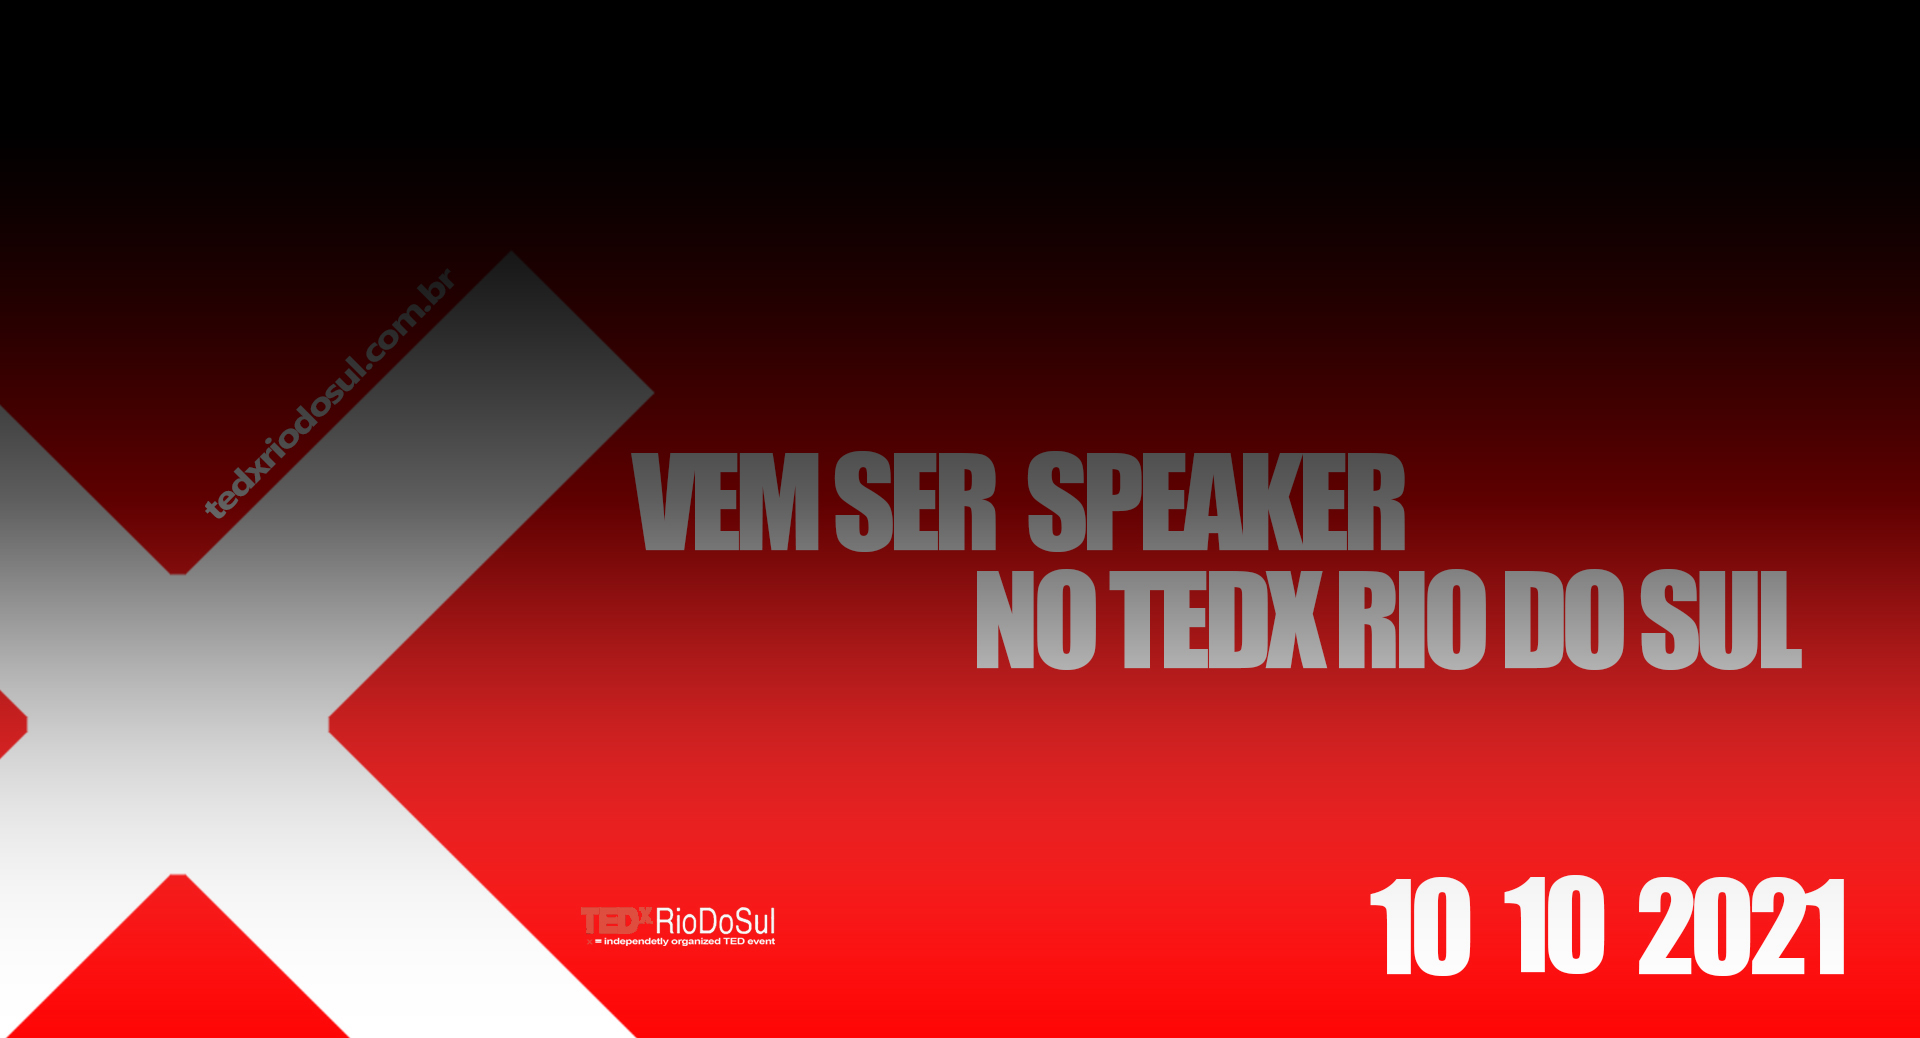
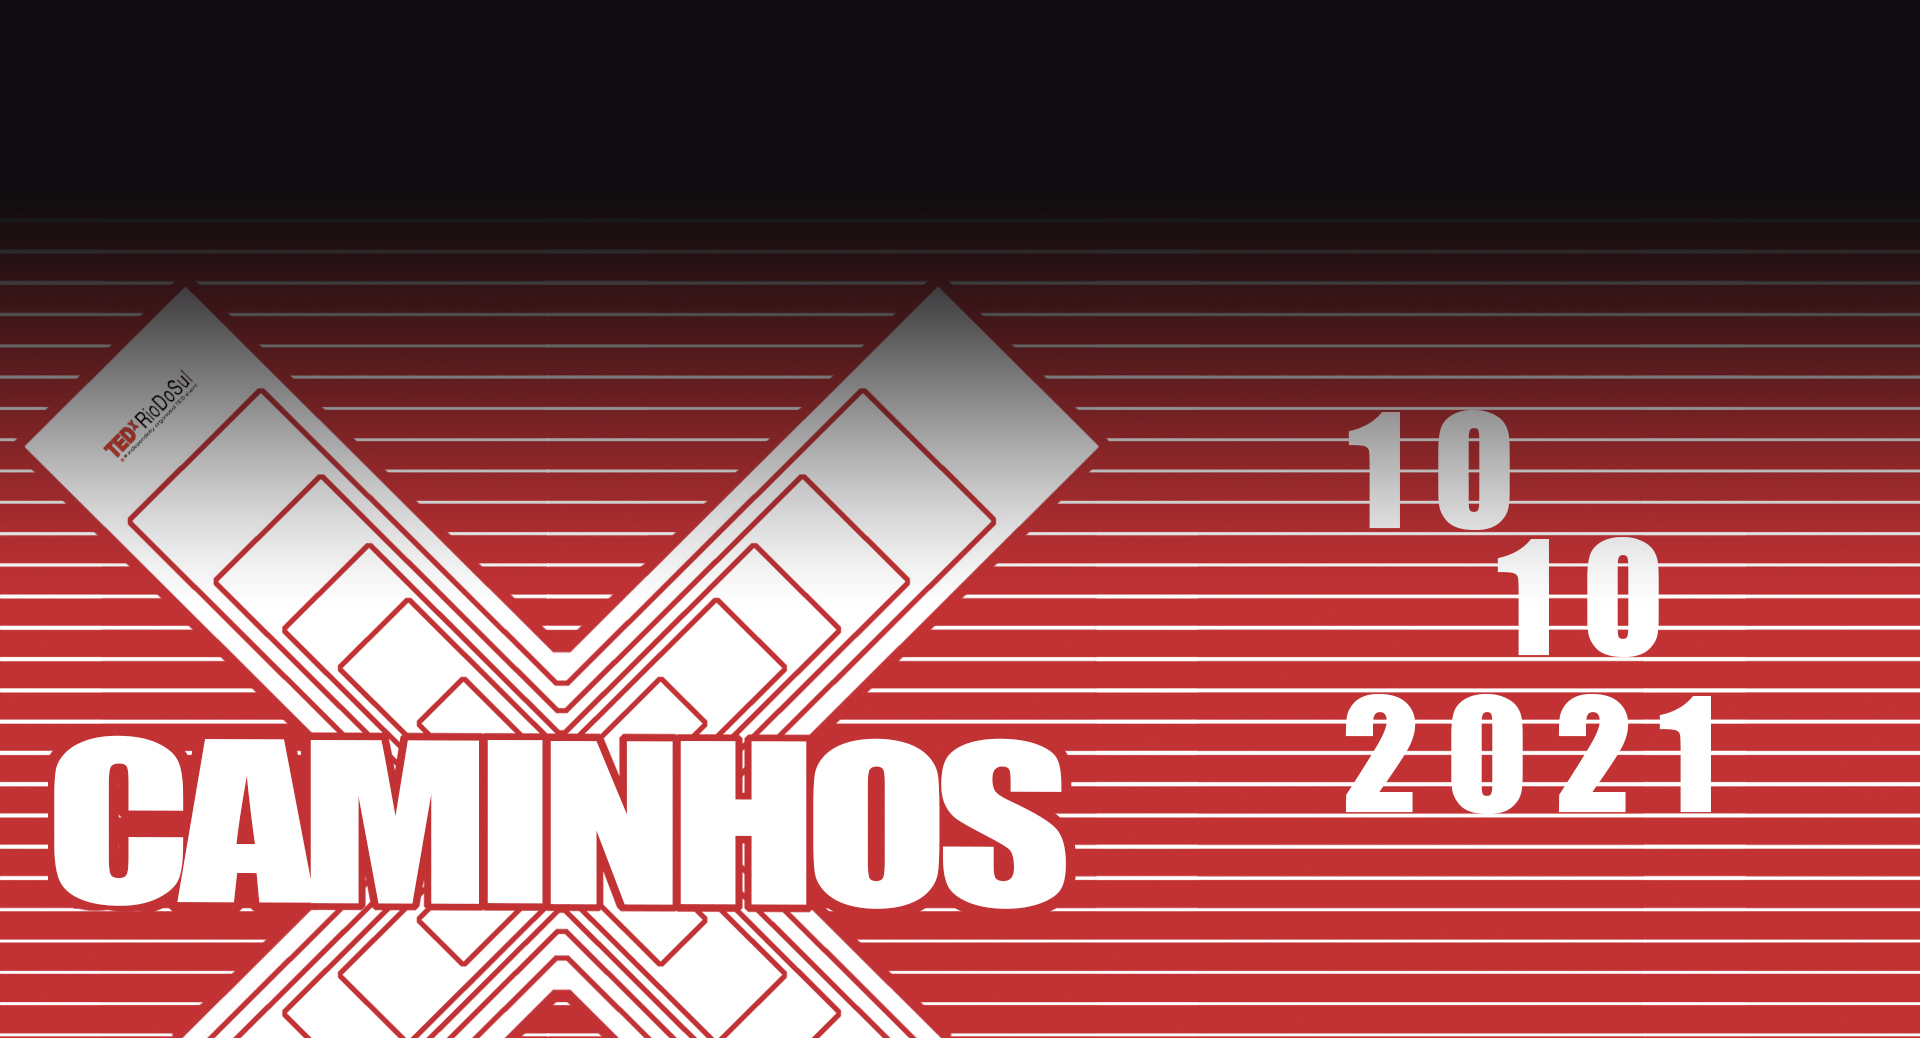
Inserido personalização de tema

diff --git a/index.html b/index.html
@@ -80,6 +80,26 @@
 <!--cover section slider -->
 <section id="home" class="home-cover">
     <div class="cover_slider owl-carousel owl-theme">
+        <div class="cover_item" style="background: url('assets/img/bg/ted_bg_principal_1.jpg');">
+            <div class="slider_content">
+               <div class="slider-content-inner">
+                   <div class="container">
+                       <div class="slider-content-center">
+                           <h2 class="cover-title">
+                               &nbsp;
+                           </h2>
+                           <strong class="cover-xl-text">&nbsp;</strong>
+                           <p class="cover-date">
+                               &nbsp;
+                           </p>
+                           <!-- <a href="" target="_blank" class=" btn btn-primary btn-rounded" style="margin-top: 70px">
+                               Inscrições Encerradas!
+                           </a> -->
+                       </div>
+                   </div>
+               </div>
+           </div>
+        </div> 
         <div class="cover_item" style="background: url('assets/img/bg/ted_bg_principal_2.jpg');">
             <div class="slider_content">
                 <div class="slider-content-inner">
@@ -118,27 +138,7 @@
                     </div>
                 </div>
             </div>
-        </div>
-        <div class="cover_item" style="background: url('assets/img/bg/ted_bg_principal_1.jpg');">
-            <div class="slider_content">
-               <div class="slider-content-inner">
-                   <div class="container">
-                       <div class="slider-content-center">
-                           <h2 class="cover-title">
-                               &nbsp;
-                           </h2>
-                           <strong class="cover-xl-text">&nbsp;</strong>
-                           <p class="cover-date">
-                               &nbsp;
-                           </p>
-                           <a href="" target="_blank" class=" btn btn-primary btn-rounded" style="margin-top: 70px">
-                               Inscrições Encerradas!
-                           </a>
-                       </div>
-                   </div>
-               </div>
-           </div>
-        </div>    
+        </div>   
     </div>
     <div class="cover_nav">
         <ul class="cover_dots">
@@ -206,7 +206,7 @@
 
 
 <!--event countdown -->
-<section class="bg-img pt70 pb70" style="background-image: url('assets/img/bg/ted_bg_counter.png');">
+<section class="bg-img pt70 pb70" style="background-image: url('assets/img/bg/ted_bg_counter.jpg');">
     <div class="overlay_dark"></div>
     <div class="container">
         <div class="row justify-content-center">
@@ -222,8 +222,7 @@
 
 
 <!--about the event -->
-<!-- atualizar quando tivermos o tema -->
-<!-- <section class="pt100 pb50">
+<section class="pt100 pb50">
     <div class="container">
         <div class="section_title">
             <h3 class="title">
@@ -233,27 +232,39 @@
         <div class="row justify-content-center">
             <div class="col-12 col-md-12">
                 <p>
-                    <h4><i>Velocidade</i></h4><br/>
+                    <h4><i>Caminhos</i></h4><br/>
                 </p>
             </div>
         </div>
         <div class="row justify-content-center">
             <div class="col-12 col-md-6">
                 <p style="line-height: 30px">
-                Movimento ou deslocamento rápido.<br/>
-                A presença da velocidade é o que move o mundo, mas a ausência dela também, dependendo do ponto de vista, do contexto e dos envolvidos.<br/>
-
+                    Entre caminhos, o caminho está! Nos destinos, nas viagens, está também na dança e no artesanato.
+                    O caminho está nas metáforas, poesias, literaturas, nas figuras de linguagem. Até nas exatas, tem caminho na física e na astronomia. <br/>
+                    Do Latim vulgar “CAMMINUS”, de origem celta, passa a ideia de “deslocar-se, andar”.
+                    Tem tantas definições: direção, estrada, percurso, rumo, atalho, vereda. Tem tantos caminhos em nossos caminhos, tantas pessoas.
                 </p>
             </div>
             <div class="col-12 col-md-6">
                 <p style="line-height: 30px">
-                    Em qual velocidade você evolui, vive, se relaciona, aprende, processa, esquece, envelhece, cria, transforma, se conectada e se perde?<br/>
-                    Minha velocidade é diferente da sua, na minha percepção ou na tua?
+                    Tem aqueles que passam, tem os que cruzam e no meio do caminho tudo pode acontecer.
+                    O mundo está repleto de caminhos, por onde andamos há sempre novas descobertas, aprendemos, ensinamos. <br/>
+                    Dos fragmentos do caminho nós somos, é pelo caminho que nós nos encontramos, para compartilhar, para transformar.
+                </p>
+                <p>
+                    E você, para onde está indo?
                 </p>
             </div>
         </div>
+        <div class="row justify-content-center">            
+            <div class="col-12 col-md-6">
+                <p style="line-height: 30px">
+
+                </p>
+            </div>                
+        </div>
     </div>
-</section> -->
+</section>
 <!--about the event end -->
 
 <!--speaker section-->
@@ -269,7 +280,7 @@
         <div class="col-md-3 col-sm-6">
             <div class="speaker_box more-info" title="">
                 <div class="speaker_img">
-                    <img src="assets/img/speakers/ted_user_2.png" alt="Aguardando Speaker">
+                    <img src="assets/img/speakers/ted_user_2.jpg" alt="Aguardando Speaker">
                     <!-- <a href="" target="_blank"> -->
                         <div class="info_box">
                             <h5 class="name"> # Speaker Não Anunciado #</h5>
@@ -282,34 +293,7 @@
         <div class="col-md-3 col-sm-6">
             <div class="speaker_box more-info" title="">
                 <div class="speaker_img">
-                    <img src="assets/img/speakers/ted_user_1.png" alt="Aguardando Speaker">
-                    <!-- <a href="" target="_blank"> -->
-                        <div class="info_box">
-                            <h5 class="name"> # Speaker Não Anunciado #</h5>
-                            <p class="position"></p>
-                        </div>
-                    </a>
-                </div>
-            </div>
-        </div>
-
-        <div class="col-md-3 col-sm-6">
-            <div class="speaker_box more-info" title="">
-                <div class="speaker_img">
-                    <img src="assets/img/speakers/ted_user_2.png" alt="Aguardando Speaker">
-                    <!-- <a href="" target="_blank"> -->
-                        <div class="info_box">
-                            <h5 class="name"> # Speaker Não Anunciado #</h5>
-                            <p class="position"></p>
-                        </div>
-                    </a>
-                </div>
-            </div>
-        </div>
-        <div class="col-md-3 col-sm-6">
-            <div class="speaker_box more-info" title="">
-                <div class="speaker_img">
-                    <img src="assets/img/speakers/ted_user_1.png" alt="Aguardando Speaker">
+                    <img src="assets/img/speakers/ted_user_1.jpg" alt="Aguardando Speaker">
                     <!-- <a href="" target="_blank"> -->
                         <div class="info_box">
                             <h5 class="name"> # Speaker Não Anunciado #</h5>
@@ -323,7 +307,7 @@
         <div class="col-md-3 col-sm-6">
             <div class="speaker_box more-info" title="">
                 <div class="speaker_img">
-                    <img src="assets/img/speakers/ted_user_2.png" alt="Aguardando Speaker">
+                    <img src="assets/img/speakers/ted_user_2.jpg" alt="Aguardando Speaker">
                     <!-- <a href="" target="_blank"> -->
                         <div class="info_box">
                             <h5 class="name"> # Speaker Não Anunciado #</h5>
@@ -336,34 +320,7 @@
         <div class="col-md-3 col-sm-6">
             <div class="speaker_box more-info" title="">
                 <div class="speaker_img">
-                    <img src="assets/img/speakers/ted_user_1.png" alt="Aguardando Speaker">
-                    <!-- <a href="" target="_blank"> -->
-                        <div class="info_box">
-                            <h5 class="name"> # Speaker Não Anunciado #</h5>
-                            <p class="position"></p>
-                        </div>
-                    </a>
-                </div>
-            </div>
-        </div>
-
-        <div class="col-md-3 col-sm-6">
-            <div class="speaker_box more-info" title="">
-                <div class="speaker_img">
-                    <img src="assets/img/speakers/ted_user_2.png" alt="Aguardando Speaker">
-                    <!-- <a href="" target="_blank"> -->
-                        <div class="info_box">
-                            <h5 class="name"> # Speaker Não Anunciado #</h5>
-                            <p class="position"></p>
-                        </div>
-                    </a>
-                </div>
-            </div>
-        </div>
-        <div class="col-md-3 col-sm-6">
-            <div class="speaker_box more-info" title="">
-                <div class="speaker_img">
-                    <img src="assets/img/speakers/ted_user_1.png" alt="Aguardando Speaker">
+                    <img src="assets/img/speakers/ted_user_1.jpg" alt="Aguardando Speaker">
                     <!-- <a href="" target="_blank"> -->
                         <div class="info_box">
                             <h5 class="name"> # Speaker Não Anunciado #</h5>
@@ -377,7 +334,7 @@
         <div class="col-md-3 col-sm-6">
             <div class="speaker_box more-info" title="">
                 <div class="speaker_img">
-                    <img src="assets/img/speakers/ted_user_1.png" alt="Aguardando Speaker">
+                    <img src="assets/img/speakers/ted_user_2.jpg" alt="Aguardando Speaker">
                     <!-- <a href="" target="_blank"> -->
                         <div class="info_box">
                             <h5 class="name"> # Speaker Não Anunciado #</h5>
@@ -390,7 +347,61 @@
         <div class="col-md-3 col-sm-6">
             <div class="speaker_box more-info" title="">
                 <div class="speaker_img">
-                    <img src="assets/img/speakers/ted_user_2.png" alt="Aguardando Speaker">
+                    <img src="assets/img/speakers/ted_user_1.jpg" alt="Aguardando Speaker">
+                    <!-- <a href="" target="_blank"> -->
+                        <div class="info_box">
+                            <h5 class="name"> # Speaker Não Anunciado #</h5>
+                            <p class="position"></p>
+                        </div>
+                    </a>
+                </div>
+            </div>
+        </div>
+
+        <div class="col-md-3 col-sm-6">
+            <div class="speaker_box more-info" title="">
+                <div class="speaker_img">
+                    <img src="assets/img/speakers/ted_user_2.jpg" alt="Aguardando Speaker">
+                    <!-- <a href="" target="_blank"> -->
+                        <div class="info_box">
+                            <h5 class="name"> # Speaker Não Anunciado #</h5>
+                            <p class="position"></p>
+                        </div>
+                    </a>
+                </div>
+            </div>
+        </div>
+        <div class="col-md-3 col-sm-6">
+            <div class="speaker_box more-info" title="">
+                <div class="speaker_img">
+                    <img src="assets/img/speakers/ted_user_1.jpg" alt="Aguardando Speaker">
+                    <!-- <a href="" target="_blank"> -->
+                        <div class="info_box">
+                            <h5 class="name"> # Speaker Não Anunciado #</h5>
+                            <p class="position"></p>
+                        </div>
+                    </a>
+                </div>
+            </div>
+        </div>
+
+        <div class="col-md-3 col-sm-6">
+            <div class="speaker_box more-info" title="">
+                <div class="speaker_img">
+                    <img src="assets/img/speakers/ted_user_1.jpg" alt="Aguardando Speaker">
+                    <!-- <a href="" target="_blank"> -->
+                        <div class="info_box">
+                            <h5 class="name"> # Speaker Não Anunciado #</h5>
+                            <p class="position"></p>
+                        </div>
+                    </a>
+                </div>
+            </div>
+        </div>
+        <div class="col-md-3 col-sm-6">
+            <div class="speaker_box more-info" title="">
+                <div class="speaker_img">
+                    <img src="assets/img/speakers/ted_user_2.jpg" alt="Aguardando Speaker">
                     <!-- <a href="" target="_blank"> -->
                         <div class="info_box">
                             <h5 class="name"> # Speaker Não Anunciado #</h5>

diff --git a/assets/css/main_v2.css b/assets/css/main_v2.css
@@ -2007,7 +2007,7 @@ Cover
 }
 .cover_slider .cover_item .slider_content {
   display: table;
-  background-color: rgba(0, 0, 0, 0.2);
+  /* background-color: rgba(0, 0, 0, 0.2); */
   height: 100%;
   width: 100%;
   position: relative;
